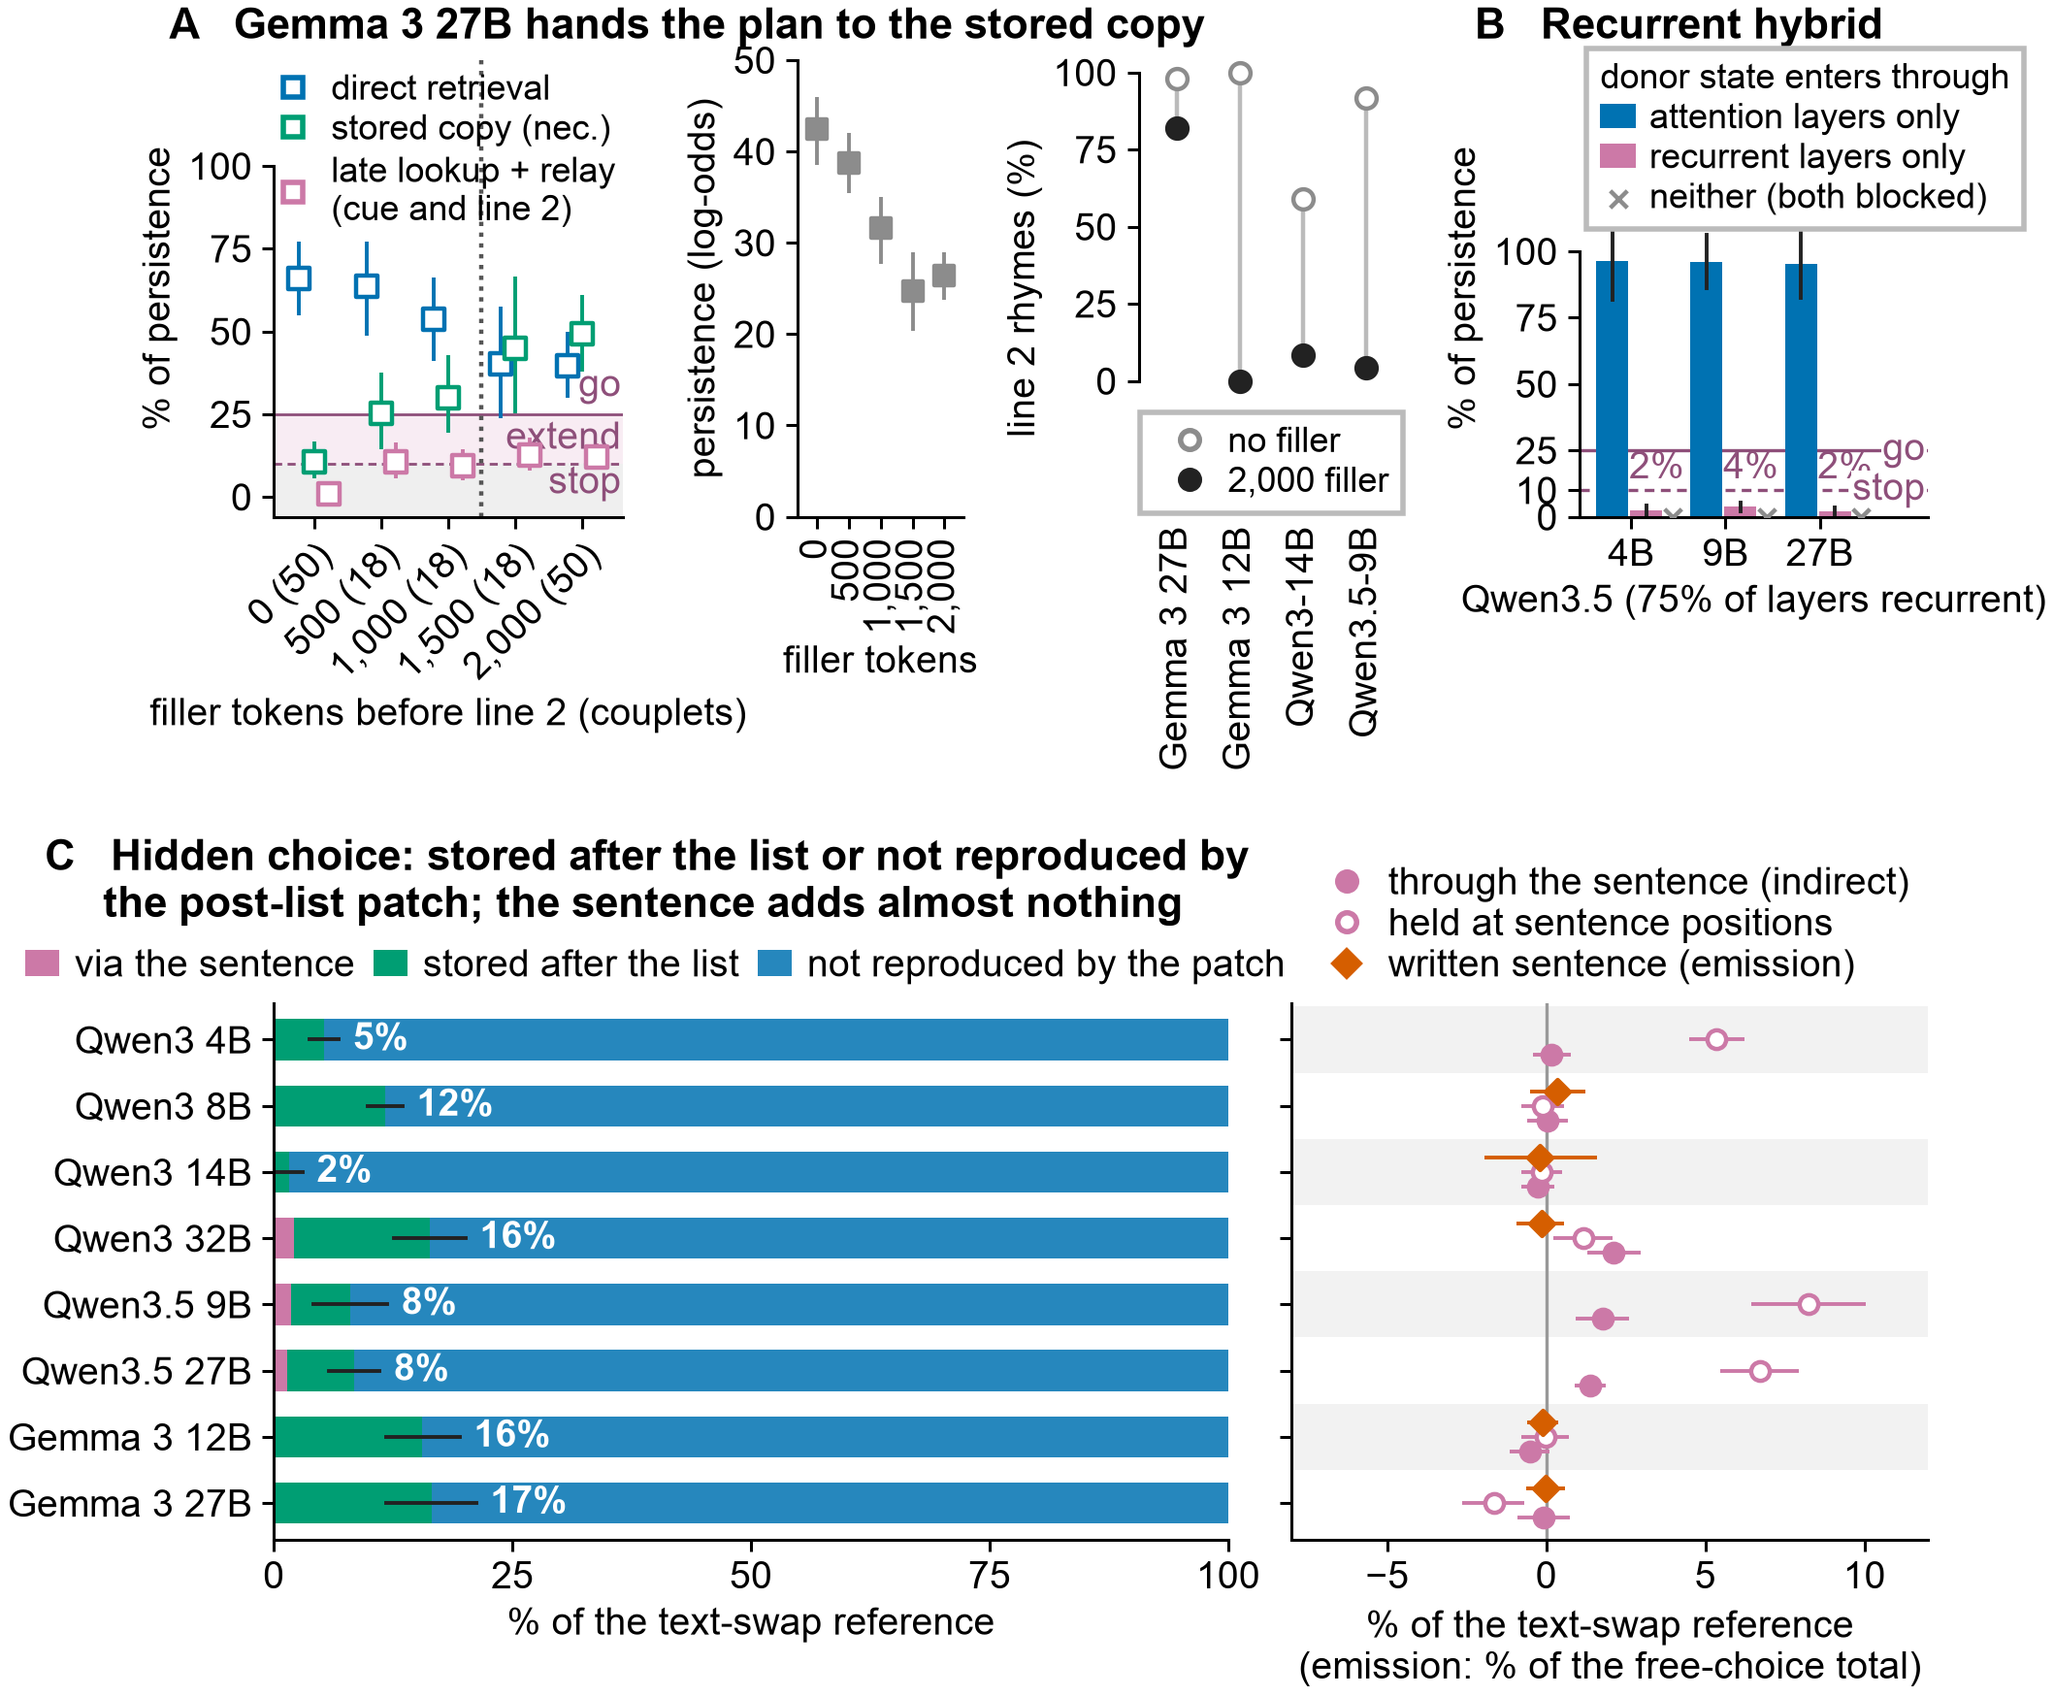
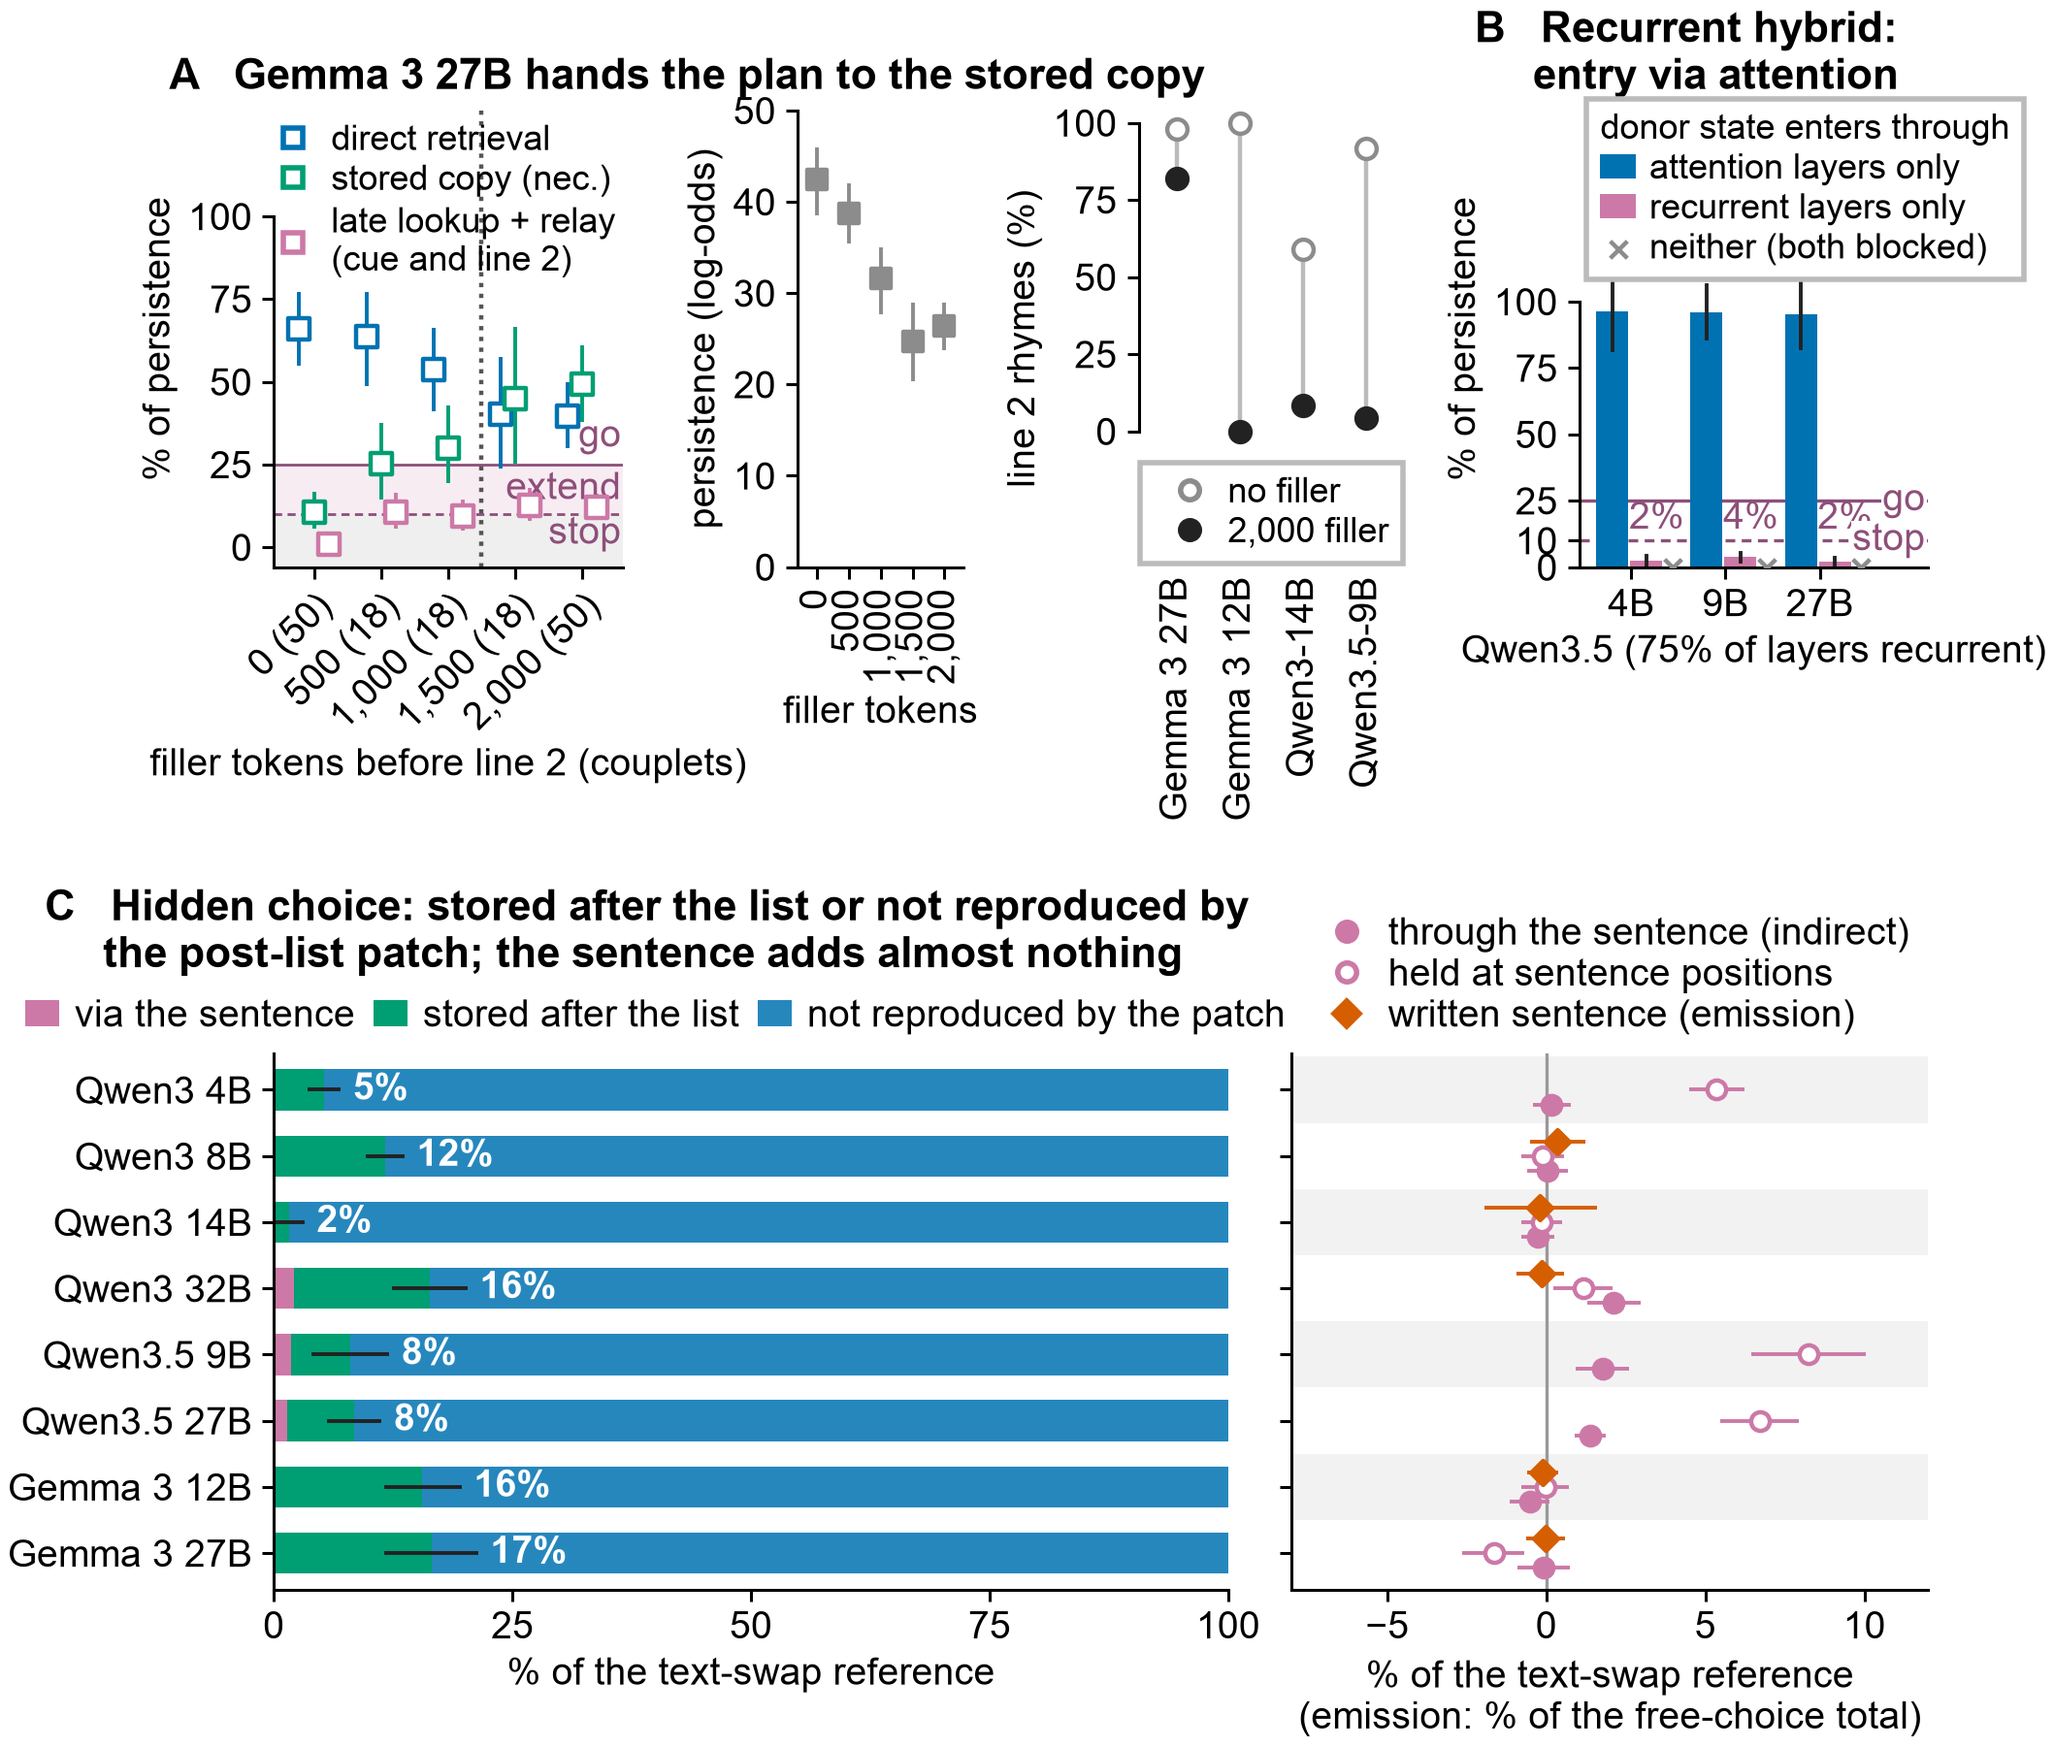
Name section 4 and Figure 3 by what they show, not "stress tests".
Section 4 is now "Settings built to favour relay", and its first sentence
defines "stress tests" as the short name. Figure 3's caption opens "In settings
built to favour relay, models still look up information", and panel B reads
"Recurrent hybrid: entry via attention". Rendered as paper_52.

diff --git a/manuscript/figures/make_iclr_figures.py b/manuscript/figures/make_iclr_figures.py
@@ -989,7 +989,7 @@ def fig4():
                     title="donor state enters through", title_fontsize=6.5, frameon=True, fancybox=False,
                     edgecolor="#BBBBBB", framealpha=1.0)
     leg._legend_box.align = "left"
-    ax.set_title("B   Recurrent hybrid", x=-0.3)
+    ax.set_title("B   Recurrent hybrid:\n     entry via attention", x=-0.3)
 
     # B. Beyond Gemma 3's local attention window: measured distances only.
     byd = distance_data()
